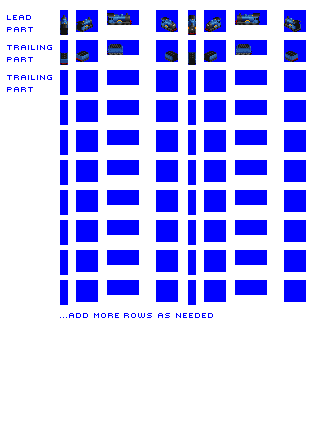
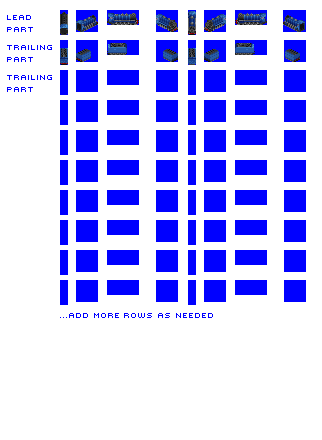
Change: new graphics for Gresley (closes #6409)

diff --git a/src/vehicles/gresley.py b/src/vehicles/gresley.py
@@ -24,3 +24,6 @@ vehicle = SteamTenderLoco(id = 'gresley',
 vehicle.add_model_variant(intro_date=0,
                        end_date=global_constants.max_game_date,
                        spritesheet_suffix=0)
+vehicle.add_model_variant(intro_date=0,
+                       end_date=global_constants.max_game_date,
+                       spritesheet_suffix=1)
